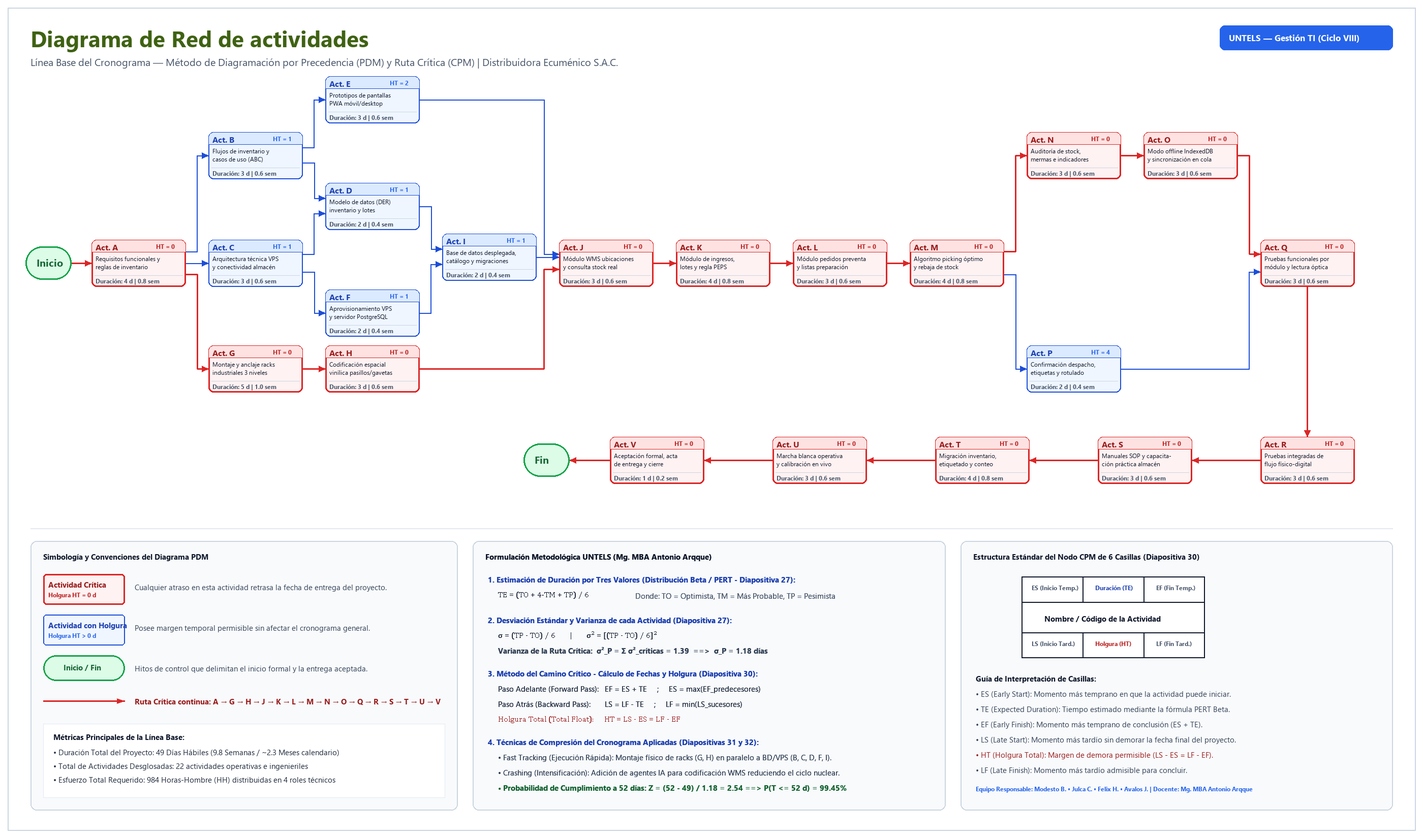
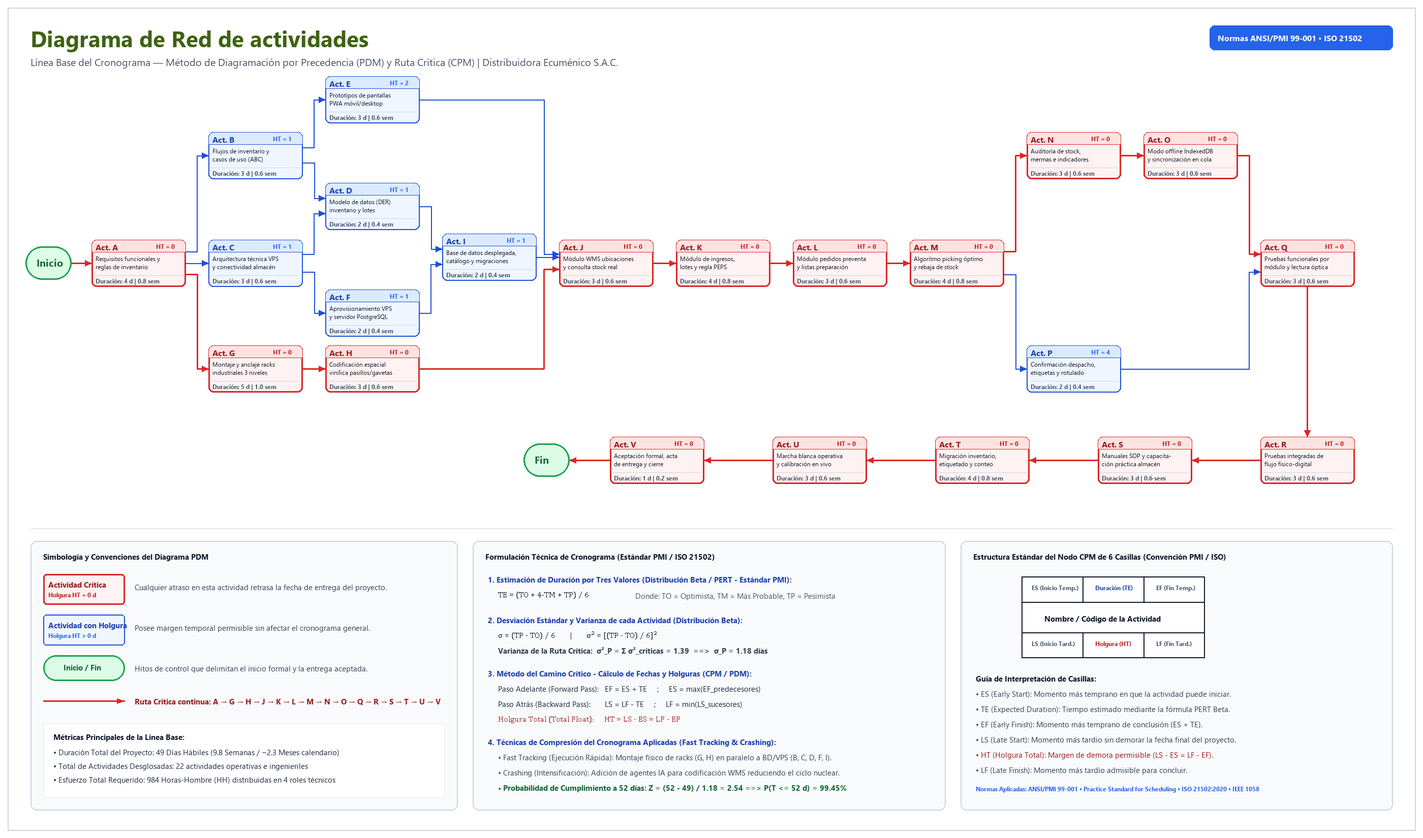
refactor: estandarizar capitulo 10 e imagen de red exclusivamente bajo normas tecnicas ANSI/PMI 99-001, ISO 21502, IEEE 1058 e ISO 12207

diff --git a/index.html b/index.html
@@ -2488,9 +2488,9 @@
       <figure class="post-cover"><div class="frame"><div class="cover-art c10"><svg class="pattern" aria-hidden="true"><defs><pattern id="p15" width="32" height="32" patternUnits="userSpaceOnUse"><path d="M0 16h32M16 0v32" stroke="#fff" stroke-width=".8"/></pattern></defs><rect width="100%" height="100%" fill="url(#p15)"/></svg><span class="big">10</span><svg class="icon" width="34" height="34" fill="none" stroke="#fff" stroke-width="1.6" stroke-linecap="round" stroke-linejoin="round" viewBox="0 0 24 24"><path d="M4 5a1 1 0 011-1h4a1 1 0 011 1v4a1 1 0 01-1 1H5a1 1 0 01-1-1V5zm10 0a1 1 0 011-1h4a1 1 0 011 1v4a1 1 0 01-1 1h-4a1 1 0 01-1-1V5zM9 14a1 1 0 011-1h4a1 1 0 011 1v4a1 1 0 01-1 1h-4a1 1 0 01-1-1v-4zM7 10v3m10-3v3m-5 1v-1"/></svg></div></div></figure>
       <div class="post-layout">
         <div class="post-body">
-            <h3 class="text-base sm:text-lg font-bold text-neutral-950 mt-5 mb-2">10.1 Enunciado del Alcance del Proyecto (PMBOK / Norma UNTELS)</h3>
+            <h3 class="text-base sm:text-lg font-bold text-neutral-950 mt-5 mb-2">10.1 Enunciado del Alcance del Proyecto (Estándares ANSI/PMI 99-001 e ISO 21502)</h3>
             <p class="text-justify mb-4">
-              Conforme a los estándares de Gestión del Alcance del PMBOK impartidos por el <strong>Mg. MBA Antonio Arqque Pantigozo en la Universidad Nacional Tecnológica de Lima Sur (UNTELS)</strong>, el enunciado formaliza los límites del trabajo, los entregables aceptados y las exclusiones explícitas para prevenir la corrupción del alcance o trabajos no solicitados (<i>gold plating</i>):
+              Conforme a las directrices de Gestión del Alcance establecidas en la norma <strong>ANSI/PMI 99-001 (Guía del PMBOK®)</strong> y el estándar internacional <strong>ISO 21502:2020 (Gestión de proyectos, programas y carteras)</strong>, el enunciado formaliza con rigor los límites operativos, los entregables aceptados y las exclusiones explícitas para prevenir la corrupción del alcance o trabajos no contratados (<i>gold plating</i>):
             </p>
 
             <div class="overflow-x-auto">
@@ -2553,7 +2553,7 @@
 
             <h3 class="text-base sm:text-lg font-bold text-neutral-950 mt-6 mb-2">10.2 Estructura de Desglose del Trabajo (EDT / WBS)</h3>
             <p class="text-justify mb-4">
-              En estricto cumplimiento de la regla metodológica enseñada por el profesor (Diapositiva 36 de la sesión de Alcance), <strong>la EDT se compone exclusivamente de sustantivos, evitando el uso de verbos</strong>:
+              En estricto cumplimiento del <strong>Estándar de Práctica del PMI para Estructuras de Desglose del Trabajo (PMI Practice Standard for WBS)</strong> y las directrices de descomposición orientada a entregables de la norma <strong>ISO/IEC/IEEE 12207</strong>, <strong>la EDT se compone exclusivamente de sustantivos (entregables tangibles, productos físicos y componentes de software verificables), evitando estrictamente el uso de verbos de acción</strong>, asegurando el cumplimiento de la Regla del 100 %:
             </p>
 
             <div class="overflow-x-auto">
@@ -2601,7 +2601,7 @@
 
             <h3 class="text-base sm:text-lg font-bold text-neutral-950 mt-6 mb-2">10.3 Diccionario de la EDT (Fichas Técnicas de los 15 Paquetes de Trabajo)</h3>
             <p class="text-justify mb-4">
-              Tal como exige el estándar PMBOK y la <strong>Diapositiva 39 de la sesión de Alcance</strong>, el Diccionario de la EDT debe documentar <strong>CADA UNO de los paquetes de trabajo</strong> de la EDT. A continuación se presentan las 15 fichas técnicas completas agrupadas por Cuenta de Control:
+              Conforme a las exigencias normativas del estándar <strong>ANSI/PMI 99-001 (Sección 5.4: Crear la EDT/WBS)</strong> y la norma <strong>ISO 21502</strong>, el Diccionario de la EDT proporciona la especificación técnica, criterios de aceptación, recursos asignados y estimación de costos de <strong>cada uno de los paquetes de trabajo</strong> del nivel terminal. A continuación se presentan las fichas técnicas normalizadas agrupadas por Cuenta de Control:
             </p>
 
             <details class="lk-items my-4" open>
@@ -2671,12 +2671,12 @@
               </div>
             </details>
 
-                        <h3 class="text-base sm:text-lg font-bold text-neutral-950 mt-6 mb-2">10.4 Diagrama de la Lista de Actividades y Estimación por Tres Valores (Fórmulas PERT de la Diapositiva 27)</h3>
+                        <h3 class="text-base sm:text-lg font-bold text-neutral-950 mt-6 mb-2">10.4 Diagrama de la Lista de Actividades y Estimación por Tres Valores (Estándares PMI Scheduling e IEEE 1058)</h3>
             <p class="text-justify mb-4">
-              En estricto cumplimiento de los estándares del PMBOK y la <strong>metodología impartida por el Mg. MBA Antonio Arqque Pantigozo en la Universidad Nacional Tecnológica de Lima Sur (UNTELS)</strong>, los paquetes de trabajo de la EDT se descomponen a un nivel más granular de <strong>actividades operativas e ingenieriles</strong> (Diapositiva 18: Planificación gradual). Como se observa en la formulación de referencia del equipo, no se toman los bloques macro tal cual, sino que se separan en tareas secuenciales bien definidas de software, infraestructura física, hardware y despliegue.
+              En estricto cumplimiento del <strong>Estándar de Práctica del PMI para la Gestión del Cronograma (Practice Standard for Scheduling)</strong> y la norma <strong>ISO 21502 (Cláusula 7.4: Programación y Gestión del Tiempo)</strong>, los paquetes de trabajo de la EDT se descomponen a un nivel de granularidad ejecutable denominado <strong>actividades del cronograma</strong> mediante la técnica de planificación gradual (<i>Rolling Wave Planning</i>). Esta descomposición separa el alcance en tareas secuenciales bien definidas de infraestructura física de almacén, aprovisionamiento cloud, arquitectura de datos, desarrollo modular WMS y aseguramiento de calidad.
             </p>
             <p class="text-justify mb-4">
-              Para calcular la duración esperada ($T_E$), se aplican las fórmulas matemáticas de la <strong>Diapositiva 27 de la sesión de Cronograma</strong>, empleando la <strong>Distribución Beta (PERT)</strong> ($T_E = rac{T_O + 4T_M + T_P}{6}$), la desviación estándar ($\sigma = rac{T_P - T_O}{6}$), la varianza ($\sigma^2$) y el cálculo de <strong>Horas-Hombre de esfuerzo</strong> ($	ext{Esfuerzo} = T_E 	imes 8	ext{ h/día} 	imes 	ext{Recursos}$):
+              Para calcular la duración esperada ($T_E$), se aplican los métodos formales de estimación por tres valores del <strong>Estándar PMI para la Gestión del Cronograma</strong>, empleando la <strong>Distribución Beta (PERT)</strong> ($T_E = rac{T_O + 4T_M + T_P}{6}$), la desviación estándar ($\sigma = rac{T_P - T_O}{6}$), la varianza ($\sigma^2$) y el cálculo de <strong>Horas-Hombre de esfuerzo</strong> ($	ext{Esfuerzo} = T_E 	imes 8	ext{ h/día} 	imes 	ext{Recursos}$):
             </p>
 
             <div class="overflow-x-auto">
@@ -3000,7 +3000,7 @@
 
             <h3 class="text-base sm:text-lg font-bold text-neutral-950 mt-6 mb-2">10.5 Diagrama de Red de Actividades y Método de la Ruta Crítica (CPM)</h3>
             <p class="text-justify mb-4">
-              En la <strong>Diapositiva 25 de la sesión de Cronograma</strong>, el docente establece como salida clave del proceso de secuenciación el <strong>Diagrama de Red del Cronograma del Proyecto</strong> mediante el <i>Método de Diagramación por Precedencia (PDM)</i>. Siguiendo la estructura visual del diseño presentado por el equipo para Distribuidora Ecuménico, las actividades se organizan con nodos rectangulares redondeados, líneas ortogonales con cabezas de flecha direccionales, hitos en cápsulas verdes (Inicio y Fin) y la <strong>Ruta Crítica destacada en color rojo con holgura $HT = 0$</strong>:
+              Conforme a la norma técnica <strong>ANSI/PMI 99-001 (Sección 6.3: Secuenciar las Actividades)</strong> y el estándar <strong>ISO 21502</strong>, la relación lógica de dependencias se modela formalmente mediante el <strong>Método de Diagramación por Precedencia (PDM - <i>Precedence Diagramming Method</i>)</strong>. Las 22 actividades del proyecto se estructuran con nodos rectangulares enlazados por conectores direccionales ortogonales de lógica Final-a-Inicio (FS), identificando los hitos contractuales de control (<i>Inicio</i> y <i>Fin</i>) y la <strong>Ruta Crítica continua destacada en color rojo con Holgura Total  = 0$</strong>:
             </p>
 
             <figure class="dg-fig">
@@ -3008,7 +3008,7 @@
                 <img src="assets/images/diagrama-red-actividades.png" alt="Diagrama de red de actividades y ruta crítica CPM — Distribuidora Ecuménico" loading="lazy">
               </div>
               <figcaption>
-                <span><b>Diagrama de Red de actividades y Ruta Crítica (CPM).</b> Red de precedencias (PDM) con 22 actividades operativas e ingenieriles, hitos de control (Inicio y Fin), ruta crítica continua destacada en rojo (duración total: 49 días hábiles / 9.8 semanas), leyenda de holguras ($HT=0$) y formulación metodológica según la Diapositiva 30 de la sesión de Cronograma impartida por el Mg. MBA Antonio Arqque Pantigozo (UNTELS).</span>
+                <span><b>Diagrama de Red de actividades y Ruta Crítica (CPM).</b> Red de precedencias (PDM) con 22 actividades operativas e ingenieriles, hitos de control (Inicio y Fin), ruta crítica continua destacada en rojo (duración total: 49 días hábiles / 9.8 semanas), leyenda de holguras ($HT=0$) y formulación técnica estandarizada según las normas ANSI/PMI 99-001, Practice Standard for Scheduling e ISO 21502:2020.</span>
                 <span class="dg-act">
                   <button type="button" onclick="openLightbox('assets/images/diagrama-red-actividades.png', 'Diagrama de red de actividades y ruta crítica CPM — Distribuidora Ecuménico')">Ampliar</button>
                   <a href="assets/images/diagrama-red-actividades.png" download>Descargar PNG</a>
@@ -3017,7 +3017,7 @@
             </figure>
 
             <p class="text-justify mb-4">
-              En la <strong>Diapositiva 30 de la sesión de Cronograma</strong>, el docente especifica el formato estándar de cada nodo para el cálculo de la red por el Método del Camino Crítico (CPM):
+              Conforme a las convenciones internacionales de dirección de proyectos (PMI / ISO 21502), se adopta la estructura técnica estandarizada del <strong>nodo CPM de 6 casillas</strong> para la determinación rigurosa de tiempos tempranos, tardíos y márgenes de holgura:
             </p>
 
             <div class="overflow-x-auto my-4 text-center">
@@ -3097,9 +3097,9 @@
               $$Z = rac{T_S - \mu}{\sigma_P} = rac{52 - 49}{1.18} = rac{3}{1.18} = 2.54$$
               Consultando la tabla de distribución normal estándar acumulada, $P(Z \le 2.54) = 0.9945$. Es decir, <strong>el proyecto tiene un 99.45 % de probabilidad matemática de culminar a tiempo</strong> dentro del margen de 52 días laborables.
             </p>
-<h3 class="text-base sm:text-lg font-bold text-neutral-950 mt-6 mb-2">10.6 Técnicas de Optimización y Compresión del Cronograma (Diapositivas 31 y 32)</h3>
+<h3 class="text-base sm:text-lg font-bold text-neutral-950 mt-6 mb-2">10.6 Técnicas de Optimización y Compresión del Cronograma (Normas ANSI/PMI 99-001 e ISO 21502)</h3>
             <p class="text-justify mb-4">
-              En las <strong>Diapositivas 31 y 32</strong>, el docente expone dos estrategias formales de ajuste del cronograma que se aplican directamente en este proyecto:
+              De acuerdo con las directrices de optimización de tiempos estipuladas en la <strong>Guía del PMBOK® (Sección 6.5.2.6: Compresión del Cronograma)</strong> y la norma <strong>ISO 21502</strong>, se aplican dos estrategias técnicas formales de compresión para asegurar los plazos sin alterar los requerimientos de calidad:
             </p>
             <ul class="list-disc pl-6 space-y-2 mb-4 text-justify">
               <li><strong>Ejecución Rápida (Fast Tracking):</strong> Se programan las actividades de software (B, C, D, E, F y G) en paralelo con la adquisición física de los racks (H). Gracias a los agentes de Inteligencia Artificial para scaffolding de código, el software WMS se completa y espera con holgura positiva a que la infraestructura física esté anclada.</li>

diff --git a/src/chapters/cap10.html b/src/chapters/cap10.html
@@ -1,8 +1,8 @@
 <!-- title: Línea Base del Alcance, Cronograma y Plan Operativo -->
 
-            <h3 class="text-base sm:text-lg font-bold text-neutral-950 mt-5 mb-2">10.1 Enunciado del Alcance del Proyecto (PMBOK / Norma UNTELS)</h3>
+            <h3 class="text-base sm:text-lg font-bold text-neutral-950 mt-5 mb-2">10.1 Enunciado del Alcance del Proyecto (Estándares ANSI/PMI 99-001 e ISO 21502)</h3>
             <p class="text-justify mb-4">
-              Conforme a los estándares de Gestión del Alcance del PMBOK impartidos por el <strong>Mg. MBA Antonio Arqque Pantigozo en la Universidad Nacional Tecnológica de Lima Sur (UNTELS)</strong>, el enunciado formaliza los límites del trabajo, los entregables aceptados y las exclusiones explícitas para prevenir la corrupción del alcance o trabajos no solicitados (<i>gold plating</i>):
+              Conforme a las directrices de Gestión del Alcance establecidas en la norma <strong>ANSI/PMI 99-001 (Guía del PMBOK®)</strong> y el estándar internacional <strong>ISO 21502:2020 (Gestión de proyectos, programas y carteras)</strong>, el enunciado formaliza con rigor los límites operativos, los entregables aceptados y las exclusiones explícitas para prevenir la corrupción del alcance o trabajos no contratados (<i>gold plating</i>):
             </p>
 
             <div class="overflow-x-auto">
@@ -65,7 +65,7 @@
 
             <h3 class="text-base sm:text-lg font-bold text-neutral-950 mt-6 mb-2">10.2 Estructura de Desglose del Trabajo (EDT / WBS)</h3>
             <p class="text-justify mb-4">
-              En estricto cumplimiento de la regla metodológica enseñada por el profesor (Diapositiva 36 de la sesión de Alcance), <strong>la EDT se compone exclusivamente de sustantivos, evitando el uso de verbos</strong>:
+              En estricto cumplimiento del <strong>Estándar de Práctica del PMI para Estructuras de Desglose del Trabajo (PMI Practice Standard for WBS)</strong> y las directrices de descomposición orientada a entregables de la norma <strong>ISO/IEC/IEEE 12207</strong>, <strong>la EDT se compone exclusivamente de sustantivos (entregables tangibles, productos físicos y componentes de software verificables), evitando estrictamente el uso de verbos de acción</strong>, asegurando el cumplimiento de la Regla del 100 %:
             </p>
 
             <div class="overflow-x-auto">
@@ -113,7 +113,7 @@
 
             <h3 class="text-base sm:text-lg font-bold text-neutral-950 mt-6 mb-2">10.3 Diccionario de la EDT (Fichas Técnicas de los 15 Paquetes de Trabajo)</h3>
             <p class="text-justify mb-4">
-              Tal como exige el estándar PMBOK y la <strong>Diapositiva 39 de la sesión de Alcance</strong>, el Diccionario de la EDT debe documentar <strong>CADA UNO de los paquetes de trabajo</strong> de la EDT. A continuación se presentan las 15 fichas técnicas completas agrupadas por Cuenta de Control:
+              Conforme a las exigencias normativas del estándar <strong>ANSI/PMI 99-001 (Sección 5.4: Crear la EDT/WBS)</strong> y la norma <strong>ISO 21502</strong>, el Diccionario de la EDT proporciona la especificación técnica, criterios de aceptación, recursos asignados y estimación de costos de <strong>cada uno de los paquetes de trabajo</strong> del nivel terminal. A continuación se presentan las fichas técnicas normalizadas agrupadas por Cuenta de Control:
             </p>
 
             <details class="lk-items my-4" open>
@@ -183,12 +183,12 @@
               </div>
             </details>
 
-                        <h3 class="text-base sm:text-lg font-bold text-neutral-950 mt-6 mb-2">10.4 Diagrama de la Lista de Actividades y Estimación por Tres Valores (Fórmulas PERT de la Diapositiva 27)</h3>
+                        <h3 class="text-base sm:text-lg font-bold text-neutral-950 mt-6 mb-2">10.4 Diagrama de la Lista de Actividades y Estimación por Tres Valores (Estándares PMI Scheduling e IEEE 1058)</h3>
             <p class="text-justify mb-4">
-              En estricto cumplimiento de los estándares del PMBOK y la <strong>metodología impartida por el Mg. MBA Antonio Arqque Pantigozo en la Universidad Nacional Tecnológica de Lima Sur (UNTELS)</strong>, los paquetes de trabajo de la EDT se descomponen a un nivel más granular de <strong>actividades operativas e ingenieriles</strong> (Diapositiva 18: Planificación gradual). Como se observa en la formulación de referencia del equipo, no se toman los bloques macro tal cual, sino que se separan en tareas secuenciales bien definidas de software, infraestructura física, hardware y despliegue.
+              En estricto cumplimiento del <strong>Estándar de Práctica del PMI para la Gestión del Cronograma (Practice Standard for Scheduling)</strong> y la norma <strong>ISO 21502 (Cláusula 7.4: Programación y Gestión del Tiempo)</strong>, los paquetes de trabajo de la EDT se descomponen a un nivel de granularidad ejecutable denominado <strong>actividades del cronograma</strong> mediante la técnica de planificación gradual (<i>Rolling Wave Planning</i>). Esta descomposición separa el alcance en tareas secuenciales bien definidas de infraestructura física de almacén, aprovisionamiento cloud, arquitectura de datos, desarrollo modular WMS y aseguramiento de calidad.
             </p>
             <p class="text-justify mb-4">
-              Para calcular la duración esperada ($T_E$), se aplican las fórmulas matemáticas de la <strong>Diapositiva 27 de la sesión de Cronograma</strong>, empleando la <strong>Distribución Beta (PERT)</strong> ($T_E = rac{T_O + 4T_M + T_P}{6}$), la desviación estándar ($\sigma = rac{T_P - T_O}{6}$), la varianza ($\sigma^2$) y el cálculo de <strong>Horas-Hombre de esfuerzo</strong> ($	ext{Esfuerzo} = T_E 	imes 8	ext{ h/día} 	imes 	ext{Recursos}$):
+              Para calcular la duración esperada ($T_E$), se aplican los métodos formales de estimación por tres valores del <strong>Estándar PMI para la Gestión del Cronograma</strong>, empleando la <strong>Distribución Beta (PERT)</strong> ($T_E = rac{T_O + 4T_M + T_P}{6}$), la desviación estándar ($\sigma = rac{T_P - T_O}{6}$), la varianza ($\sigma^2$) y el cálculo de <strong>Horas-Hombre de esfuerzo</strong> ($	ext{Esfuerzo} = T_E 	imes 8	ext{ h/día} 	imes 	ext{Recursos}$):
             </p>
 
             <div class="overflow-x-auto">
@@ -512,7 +512,7 @@
 
             <h3 class="text-base sm:text-lg font-bold text-neutral-950 mt-6 mb-2">10.5 Diagrama de Red de Actividades y Método de la Ruta Crítica (CPM)</h3>
             <p class="text-justify mb-4">
-              En la <strong>Diapositiva 25 de la sesión de Cronograma</strong>, el docente establece como salida clave del proceso de secuenciación el <strong>Diagrama de Red del Cronograma del Proyecto</strong> mediante el <i>Método de Diagramación por Precedencia (PDM)</i>. Siguiendo la estructura visual del diseño presentado por el equipo para Distribuidora Ecuménico, las actividades se organizan con nodos rectangulares redondeados, líneas ortogonales con cabezas de flecha direccionales, hitos en cápsulas verdes (Inicio y Fin) y la <strong>Ruta Crítica destacada en color rojo con holgura $HT = 0$</strong>:
+              Conforme a la norma técnica <strong>ANSI/PMI 99-001 (Sección 6.3: Secuenciar las Actividades)</strong> y el estándar <strong>ISO 21502</strong>, la relación lógica de dependencias se modela formalmente mediante el <strong>Método de Diagramación por Precedencia (PDM - <i>Precedence Diagramming Method</i>)</strong>. Las 22 actividades del proyecto se estructuran con nodos rectangulares enlazados por conectores direccionales ortogonales de lógica Final-a-Inicio (FS), identificando los hitos contractuales de control (<i>Inicio</i> y <i>Fin</i>) y la <strong>Ruta Crítica continua destacada en color rojo con Holgura Total  = 0$</strong>:
             </p>
 
             <figure class="dg-fig">
@@ -520,7 +520,7 @@
                 <img src="assets/images/diagrama-red-actividades.png" alt="Diagrama de red de actividades y ruta crítica CPM — Distribuidora Ecuménico" loading="lazy">
               </div>
               <figcaption>
-                <span><b>Diagrama de Red de actividades y Ruta Crítica (CPM).</b> Red de precedencias (PDM) con 22 actividades operativas e ingenieriles, hitos de control (Inicio y Fin), ruta crítica continua destacada en rojo (duración total: 49 días hábiles / 9.8 semanas), leyenda de holguras ($HT=0$) y formulación metodológica según la Diapositiva 30 de la sesión de Cronograma impartida por el Mg. MBA Antonio Arqque Pantigozo (UNTELS).</span>
+                <span><b>Diagrama de Red de actividades y Ruta Crítica (CPM).</b> Red de precedencias (PDM) con 22 actividades operativas e ingenieriles, hitos de control (Inicio y Fin), ruta crítica continua destacada en rojo (duración total: 49 días hábiles / 9.8 semanas), leyenda de holguras ($HT=0$) y formulación técnica estandarizada según las normas ANSI/PMI 99-001, Practice Standard for Scheduling e ISO 21502:2020.</span>
                 <span class="dg-act">
                   <button type="button" onclick="openLightbox('assets/images/diagrama-red-actividades.png', 'Diagrama de red de actividades y ruta crítica CPM — Distribuidora Ecuménico')">Ampliar</button>
                   <a href="assets/images/diagrama-red-actividades.png" download>Descargar PNG</a>
@@ -529,7 +529,7 @@
             </figure>
 
             <p class="text-justify mb-4">
-              En la <strong>Diapositiva 30 de la sesión de Cronograma</strong>, el docente especifica el formato estándar de cada nodo para el cálculo de la red por el Método del Camino Crítico (CPM):
+              Conforme a las convenciones internacionales de dirección de proyectos (PMI / ISO 21502), se adopta la estructura técnica estandarizada del <strong>nodo CPM de 6 casillas</strong> para la determinación rigurosa de tiempos tempranos, tardíos y márgenes de holgura:
             </p>
 
             <div class="overflow-x-auto my-4 text-center">
@@ -609,9 +609,9 @@
               $$Z = rac{T_S - \mu}{\sigma_P} = rac{52 - 49}{1.18} = rac{3}{1.18} = 2.54$$
               Consultando la tabla de distribución normal estándar acumulada, $P(Z \le 2.54) = 0.9945$. Es decir, <strong>el proyecto tiene un 99.45 % de probabilidad matemática de culminar a tiempo</strong> dentro del margen de 52 días laborables.
             </p>
-<h3 class="text-base sm:text-lg font-bold text-neutral-950 mt-6 mb-2">10.6 Técnicas de Optimización y Compresión del Cronograma (Diapositivas 31 y 32)</h3>
+<h3 class="text-base sm:text-lg font-bold text-neutral-950 mt-6 mb-2">10.6 Técnicas de Optimización y Compresión del Cronograma (Normas ANSI/PMI 99-001 e ISO 21502)</h3>
             <p class="text-justify mb-4">
-              En las <strong>Diapositivas 31 y 32</strong>, el docente expone dos estrategias formales de ajuste del cronograma que se aplican directamente en este proyecto:
+              De acuerdo con las directrices de optimización de tiempos estipuladas en la <strong>Guía del PMBOK® (Sección 6.5.2.6: Compresión del Cronograma)</strong> y la norma <strong>ISO 21502</strong>, se aplican dos estrategias técnicas formales de compresión para asegurar los plazos sin alterar los requerimientos de calidad:
             </p>
             <ul class="list-disc pl-6 space-y-2 mb-4 text-justify">
               <li><strong>Ejecución Rápida (Fast Tracking):</strong> Se programan las actividades de software (B, C, D, E, F y G) en paralelo con la adquisición física de los racks (H). Gracias a los agentes de Inteligencia Artificial para scaffolding de código, el software WMS se completa y espera con holgura positiva a que la infraestructura física esté anclada.</li>

diff --git a/10.html b/10.html
@@ -4,7 +4,7 @@
 
   <h3 style="font-size: 12pt; font-weight: bold; color: #000000; text-align: justify; margin-top: 16px; margin-bottom: 8px;">10.1 Enunciado del Alcance del Proyecto</h3>
   <p style="text-align: justify; margin-top: 0; margin-bottom: 12px;">
-    Conforme a las normas del PMBOK impartidas por el Mg. MBA Antonio Arqque Pantigozo en la UNTELS, el alcance define los entregables y excluye explícitamente el desarrollo de software de mapeo propio y la compra de handhelds costosas para evitar el gold plating.
+    Conforme a los estándares internacionales de gestión del alcance (ANSI/PMI 99-001 e ISO 21502), el alcance define con precisión los entregables aceptados y excluye explícitamente el desarrollo de software de mapeo propio y la compra de handhelds costosas para evitar el gold plating.
   </p>
 
   <h3 style="font-size: 12pt; font-weight: bold; color: #000000; text-align: justify; margin-top: 16px; margin-bottom: 8px;">10.2 Estructura de Desglose del Trabajo (EDT) en Sustantivos</h3>
@@ -12,12 +12,12 @@
     La EDT descompone el trabajo en 5 Cuentas de Control y 15 Paquetes de Trabajo redactados exclusivamente con sustantivos: 1.1 Gestión del Proyecto, 1.2 Infraestructura Física de Almacén, 1.3 Sistema WMS Cloud, 1.4 Pruebas y Despliegue, y 1.5 Estandarización y Capacitación.
   </p>
 
-  <h3 style="font-size: 12pt; font-weight: bold; color: #000000; text-align: justify; margin-top: 16px; margin-bottom: 8px;">10.3 Estimación PERT por Tres Valores (Diapositiva 27)</h3>
+  <h3 style="font-size: 12pt; font-weight: bold; color: #000000; text-align: justify; margin-top: 16px; margin-bottom: 8px;">10.3 Estimación PERT por Tres Valores (Estándares PMI e IEEE 1058)</h3>
   <p style="text-align: justify; margin-top: 0; margin-bottom: 12px;">
     Se aplicó la fórmula PERT Beta: <b>T<sub>E</sub> = (T<sub>O</sub> + 4T<sub>M</sub> + T<sub>P</sub>) / 6</b> y cálculo de desviación estándar a las 22 actividades del proyecto, vinculando el esfuerzo en horas-hombre.
   </p>
 
-  <h3 style="font-size: 12pt; font-weight: bold; color: #000000; text-align: justify; margin-top: 16px; margin-bottom: 8px;">10.4 Método de la Ruta Crítica - CPM (Diapositiva 30)</h3>
+  <h3 style="font-size: 12pt; font-weight: bold; color: #000000; text-align: justify; margin-top: 16px; margin-bottom: 8px;">10.4 Método de la Ruta Crítica - CPM (Normas ANSI/PMI 99-001 e ISO 21502)</h3>
   <p style="text-align: justify; margin-top: 0; margin-bottom: 12px;">
     Cálculo de los nodos estándar de 6 casillas (ES, Duración, EF, LS, Holgura Total, LF). La Ruta Crítica con Holgura Total = 0 determina una duración total del proyecto de <b>49 días hábiles</b>: A ➔ H ➔ I ➔ J ➔ K ➔ L ➔ M ➔ S ➔ T ➔ U ➔ V.
   </p>
